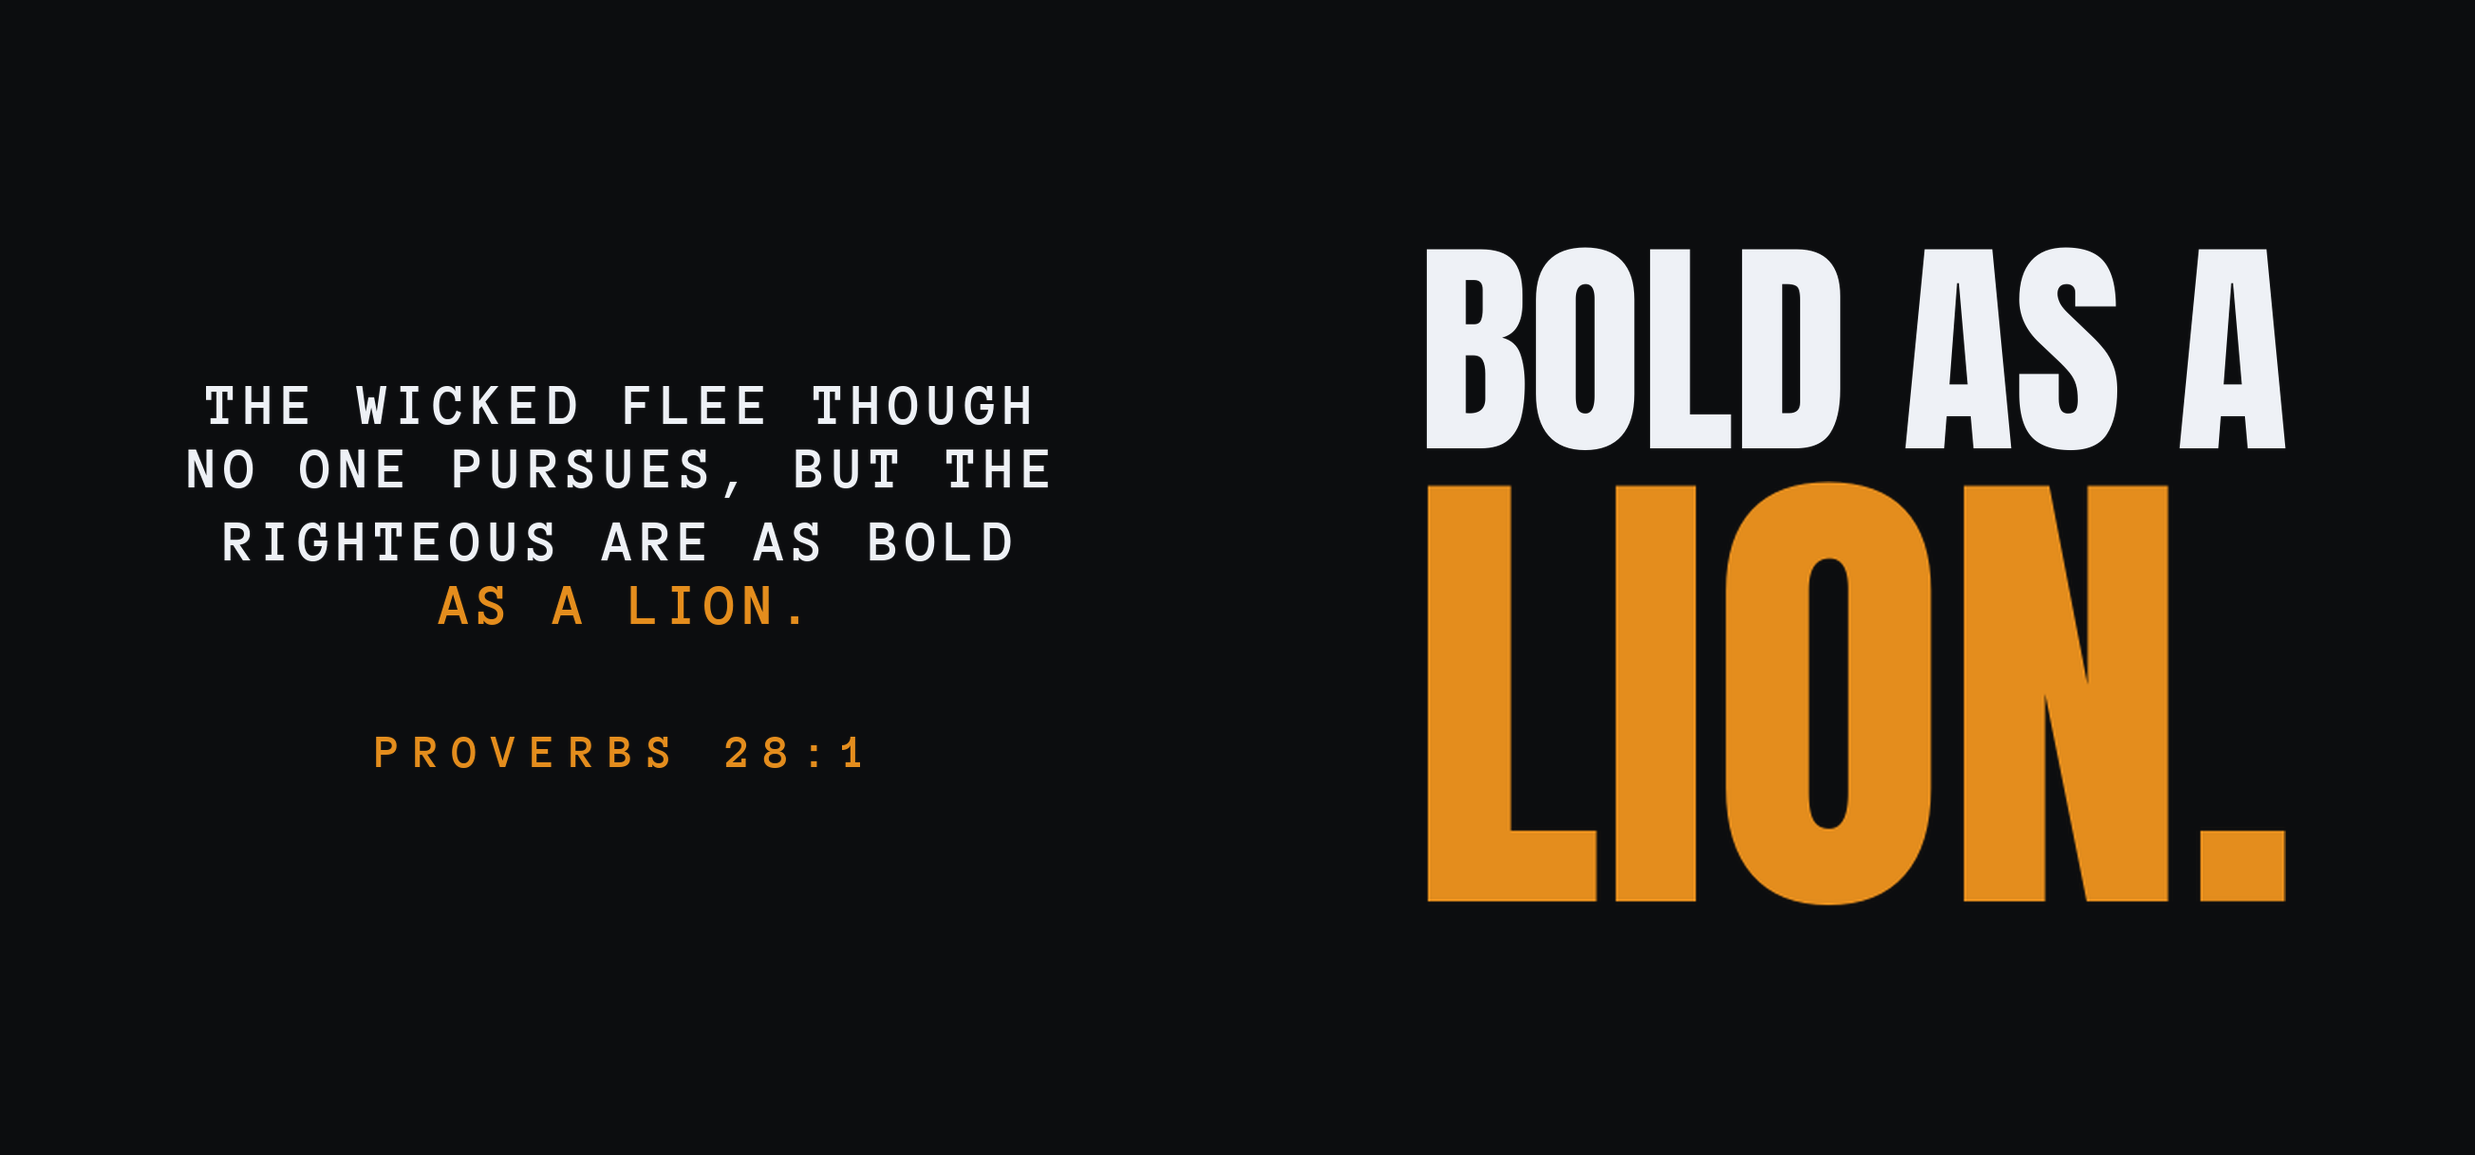
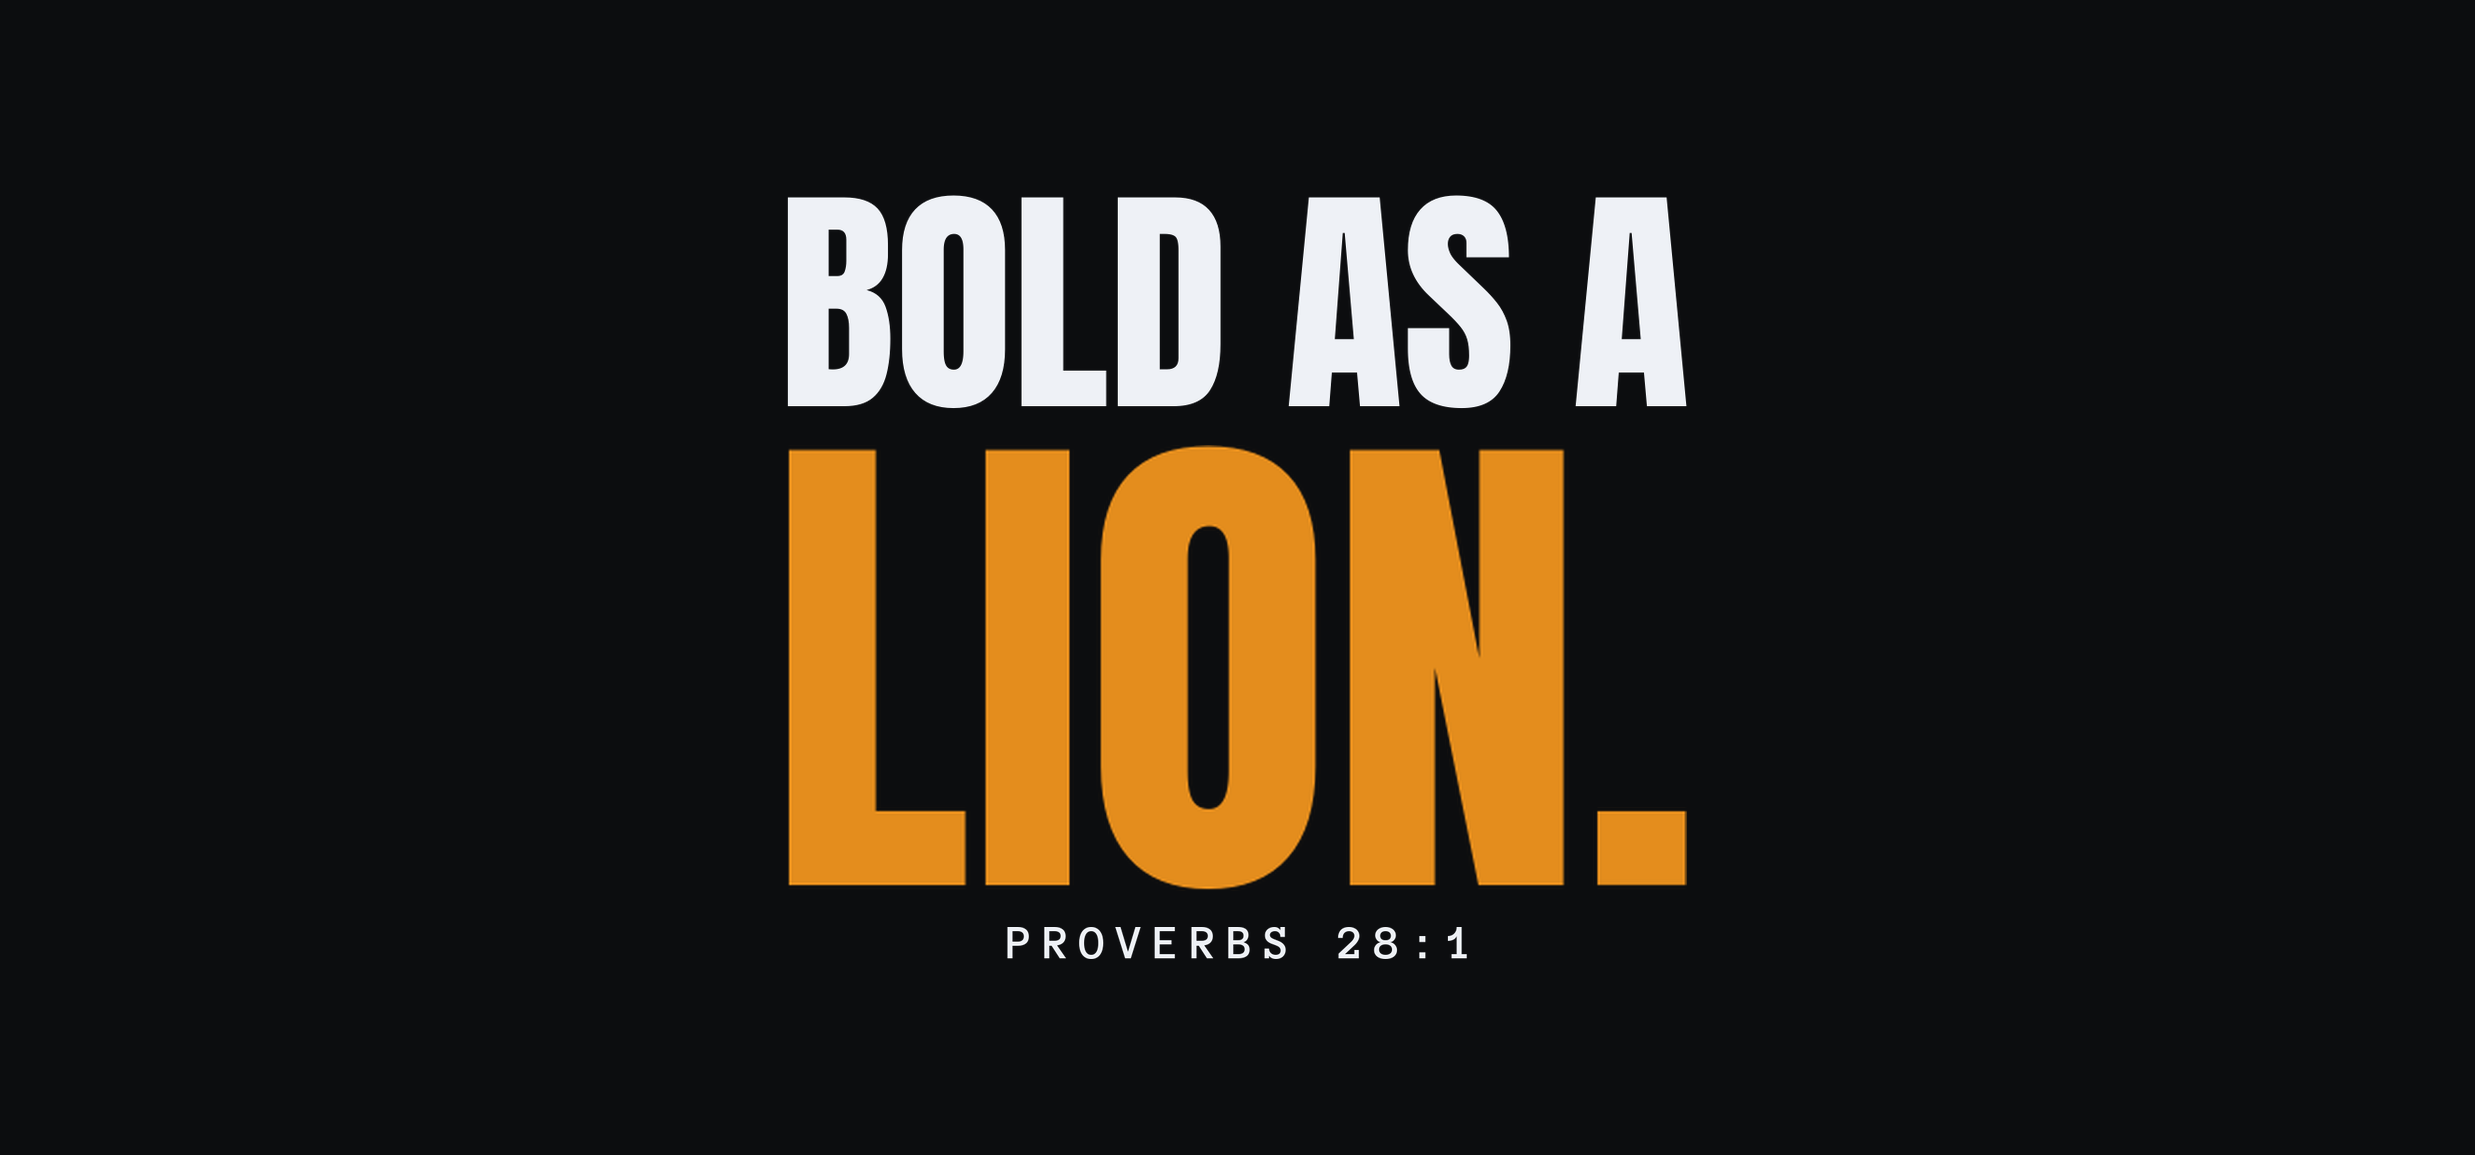
Store art: centered Bold as a Lion mug
Claude-Session: https://claude.ai/code/session_01ULdKxc1MNGpenRnX9gqdsw

Changed region(s): [[0.0622, 0.1558, 0.9333, 0.8416]]

diff --git a/store-art/src/mug3.py b/store-art/src/mug3.py
@@ -1,0 +1,7 @@
+exec(open('designs.py').read().split("# 1 BOLD")[0])
+def mug3(W=2475,H=1155):
+    c=Image.new('RGBA',(W,H),BLACK+(255,))
+    b=stack([fit_w(T('BOLD AS A',260,INK),900),fit_w(T('LION.',260,ORANGE),900),fit_w(T('PROVERBS 28:1',70,INK,MONO,14),460)],gap=36)
+    b=b.resize((int(b.width*940/b.height),940)) if b.height>940 else b
+    c.alpha_composite(b,((W-b.width)//2,(H-b.height)//2)); return c
+save('mug-bold-v2',mug3(),BLACK)
